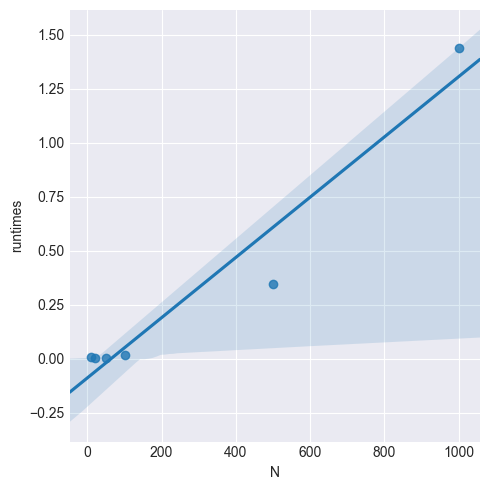
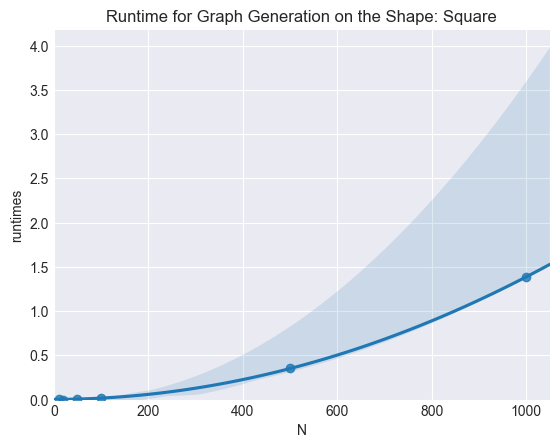
renamed stats the graph_stats for clarity

diff --git a/square.py b/square.py
@@ -1,7 +1,7 @@
 def plot_edge_densities_square(N, A, output_dir=""):
     from generate_graphs import unit_square_graph
     adjacency_list, nodes = unit_square_graph(N, A)
-    from stats import max_degree
+    from graph_stats import max_degree
     from charts import edge_density_histogram
     degrees = list(map((lambda x: x.count(1)),adjacency_list))
     edge_density_histogram(degrees, max_degree(nodes), graph_topology="Square", name="%s%d_%d.png" % (output_dir, N, A))
@@ -25,7 +25,7 @@ def plot_runtime_chart(Ns, A, output_dir=""):
         print("Generating Graph of Size %d Nodes. Item %d/%d" % (N, i+1, len(Ns)))
         stdout.write("\033[F")
         runtimes.append(time_run(N, A))
-    runtime_chart(Ns, runtimes, graph_topology="Square", name="%sruntime_chart.png" % output_dir)
+    runtime_chart(Ns, runtimes, graph_topology="Square", name="%sruntime_chart.png" % output_dir, expected_order=2)
     print("\nDone Creating Runtime Chart")
 
 if __name__ == "__main__":
@@ -36,7 +36,7 @@ if __name__ == "__main__":
     parser.set_defaults(runtimes=False, edge_density=False)
     args = parser.parse_args()
 
-    Ns = [10, 20, 50, 100, 500, 1000, 2000, 2500, 3000, 4000, 5000, 7500, 10000, 12000 ]
+    Ns = [10, 20, 50, 100, 500, 1000, 2000, 2500, 3000, 4000, 5000, 7500, 10000, 12000]
     A = 50
 
     if args.edge_density:

diff --git a/charts/runtime_chart.py b/charts/runtime_chart.py
@@ -1,4 +1,4 @@
-def runtime_chart(Ns, runtimes, graph_topology="", name=None):
+def runtime_chart(Ns, runtimes, graph_topology="", name=None, expected_order=1):
     import seaborn as sns
     import matplotlib.pyplot as plt
     import numpy as np
@@ -10,7 +10,7 @@ def runtime_chart(Ns, runtimes, graph_topology="", name=None):
     plt.xlabel("Nodes")
     plt.ylabel("Runtime (seconds)")
     daters = pd.DataFrame(data={'N': Ns, 'runtimes': runtimes})
-    sns.lmplot('N', 'runtimes', data=daters)
+    sns.regplot('N', 'runtimes', data=daters, order=expected_order)
     plt.gca().set_xlim(left=0)
     plt.gca().set_ylim(bottom=0)
     if name:
